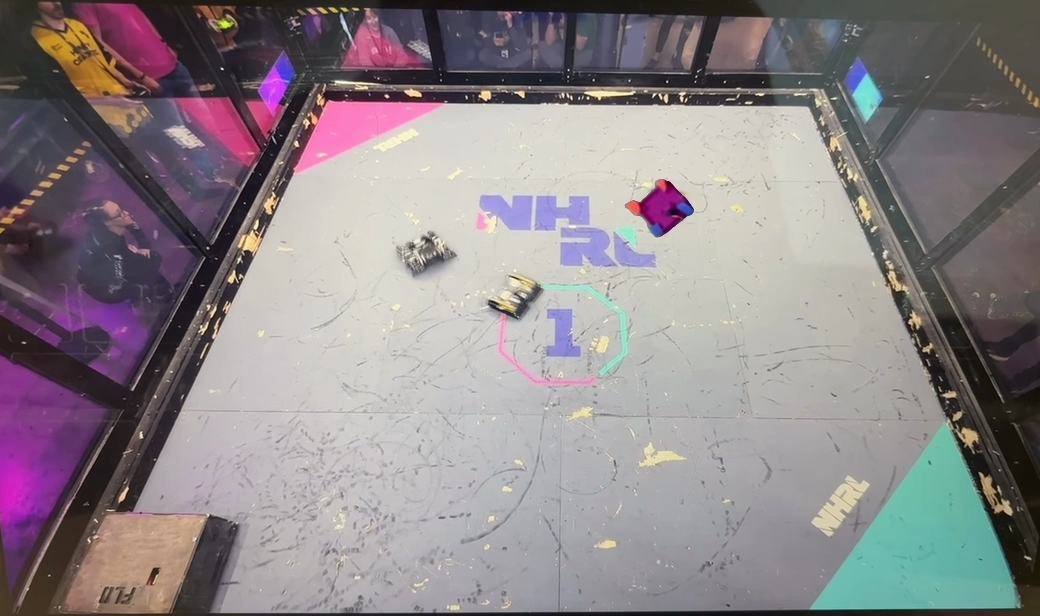
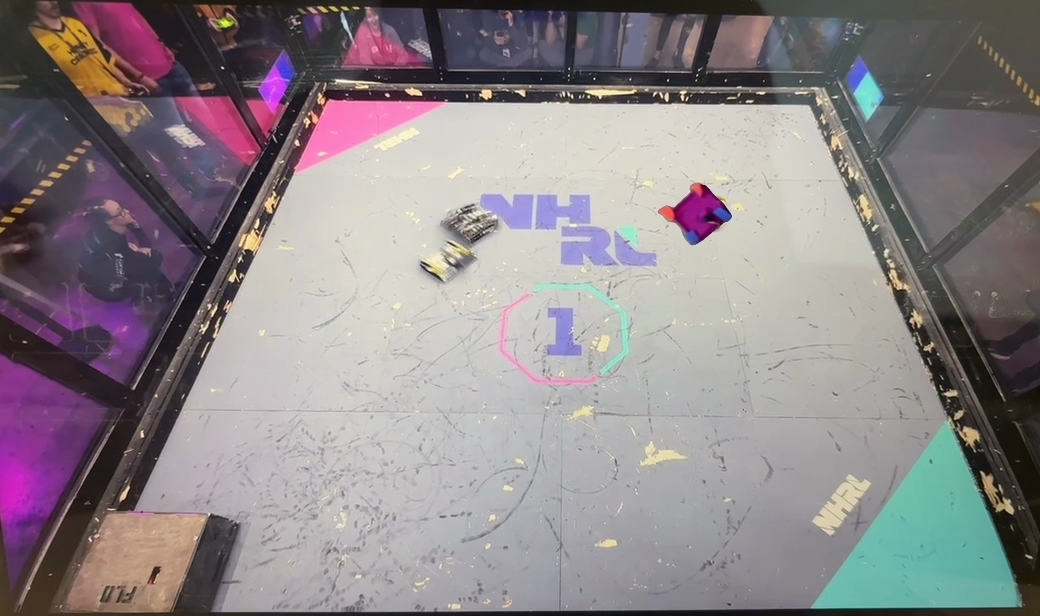
Polished CV2 arrow displays, Added custom frame rate, Handled edge cases in main.py

diff --git a/main.py b/main.py
@@ -1,7 +1,6 @@
 import cv2
 import os
 import numpy as np
-import matplotlib.pyplot as plt
 import math
 import time
 
@@ -30,8 +29,10 @@ def main():
     # 0. Set resize, camera numbers
 
     resize_factor = 1
-    camera_number = "crude_rot_huey.mp4" # Originally 0
+    camera_number = "crude_rot_huey.mp4"
     # camera_number = "huey_duet_demo.mp4"
+    # camera_number = "only_huey_demo.mp4"
+    # camera_number = "only_enemy_demo.mp4"
 
     # 1. Start the video and 2. Capture initial frame)
     cap = cv2.VideoCapture(camera_number)
@@ -49,15 +50,11 @@ def main():
             # Check for key press
             key = cv2.waitKey(1) & 0xFF
 
-            if key == ord('q'):  # Press 'q' to quit without capturing
+            if key == ord('q'): # Press 'q' to quit without capturing
                 break
-            elif key == ord('0'):  # Press '0' to capture the image and exit
-                captured_image = frame.copy()  # Store the captured frame
-                cv2.imwrite("captured_image.png",
-                            captured_image)  # Save the image
-                # cv2.imshow('Captured Image', captured_image)
-                # print("Press any key to continue...")
-                # cv2.waitKey(0)
+            elif key == ord('0'): # Press '0' to capture the image and exit
+                captured_image = frame.copy() # Store the captured frame
+                cv2.imwrite("captured_image.png", captured_image) # Save the image
                 break
         else:
             print("Failed to read frame" + "\n")
@@ -66,8 +63,7 @@ def main():
     cv2.destroyAllWindows()
 
     # 3. Homography Matrix and 4. Display the warped image
-    resized_image = cv2.resize(captured_image, (0, 0),
-                               fx=resize_factor, fy=resize_factor)  # NOTE: resized
+    resized_image = cv2.resize(captured_image, (0, 0), fx=resize_factor, fy=resize_factor)  # NOTE: resized
     h_mat = get_homography_mat(resized_image, 700, 700)
     warped_frame = warp(resized_image, h_mat, 700, 700)
     cv2.imshow("Warped Cage", warped_frame)
@@ -79,11 +75,9 @@ def main():
     image_path = os.getcwd() + "/warped_frame.png"
     output_file = "selected_colors.txt"
     selected_colors = ColorPicker.pick_colors(image_path)
-
     with open(output_file, "w") as file:
         for color in selected_colors:
             file.write(f"{color[0]}, {color[1]}, {color[2]}\n")
-
     print(f"Selected colors have been saved to '{output_file}'." + "\n")
 
     # Reading the HSV values for robot color, front and back corners from a text file
@@ -101,27 +95,33 @@ def main():
         exit(1)
 
     # Defining Corner Detection Object
-    corner_detection = RobotCornerDetection(selected_colors)
+    corner_detection = RobotCornerDetection(selected_colors, False, False)
 
     # Defining Roboflow Machine Learning Model Object
     predictor = RoboflowModel()
 
     # Defining Ram Ram Algorithm Object
-    algorithm = Ram() # TODO: initialize?
+    algorithm = Ram()
 
     cv2.destroyAllWindows()
 
-    # 6. Wait until the match starts
+    # 6. Set FPS
+    is_original_fps = True # Set True for running straight
+    frame_rate = 8
+    prev = 0
+
+    # 7. Wait for match to start
     while True:
         user_input = input("Type 'start' to begin: ").strip().lower()
         if user_input == "start":
             break
         else:
             print("Invalid input. Please type 'start' to proceed." + "\n")
-
     print("Proceeding with the rest of the program ..." + "\n")
 
     # ------------------------------------------------------------------------------
+
+    # 8. Match begins
 
     cap = cv2.VideoCapture(camera_number)
     if (cap.isOpened() == False):
@@ -129,6 +129,7 @@ def main():
 
     while (cap.isOpened()):
         # 1. Camera Capture
+        time_elapsed = time.time() - prev
         ret, frame = cap.read()
         if not ret:
             # If frame capture fails, break the loop
@@ -141,79 +142,66 @@ def main():
             break
 
         # 2. Warp image
-        frame = cv2.resize(frame, (0, 0), fx=resize_factor, fy=resize_factor)
-        warped_frame = warp(frame, h_mat, 700, 700)
-        cv2.imshow("Warped Cage", warped_frame)
-        cv2.imwrite("warped_cage.png", warped_frame)
+        if is_original_fps or time_elapsed > 1.0/frame_rate:
+            prev = time.time()
+            frame = cv2.resize(frame, (0, 0), fx=resize_factor, fy=resize_factor)
+            warped_frame = warp(frame, h_mat, 700, 700)
+            cv2.imwrite("warped_cage.png", warped_frame)
 
-        # 3. Object Detection
-        detected_bots = predictor.predict(warped_frame, show=True)
+            # 3. Object Detection
+            detected_bots = predictor.predict(warped_frame, show=True)
 
-        # 4. Corner Detection
-        corner_detection.set_bots(detected_bots["bots"])
-        detected_bots_with_data = corner_detection.corner_detection_main()
-
-        print("detected_bots_with_data: " + str(detected_bots_with_data) + "\n")
-        
-        # If bots are detected, run Algorithm
-        if detected_bots_with_data != {"huey": {}, "enemy": {}}:
-            detected_bots_with_data["enemy"] = detected_bots_with_data["enemy"][0]
+            # 4. Corner Detection
+            corner_detection.set_bots(detected_bots["bots"])
+            detected_bots_with_data = corner_detection.corner_detection_main()
+            print("detected_bots_with_data: " + str(detected_bots_with_data) + "\n")
             
-            # 5. Algorithm                                                                    
-            move_dictionary = algorithm.ram_ram(detected_bots_with_data)
-            print("move_dictionary: " + str(move_dictionary) + "\n")
+            """
+            1. detected_bots_with_data is not None
+            2. At least 1 bot is detected
+            3. At least 1 enemy is detected
+            """
+            if detected_bots_with_data and detected_bots_with_data["huey"]:
+                if detected_bots_with_data["enemy"]:
+                    # 5. Algorithm      
+                    detected_bots_with_data["enemy"] = detected_bots_with_data["enemy"][0]                                                             
+                    move_dictionary = algorithm.ram_ram(detected_bots_with_data)
+                    print("move_dictionary: " + str(move_dictionary) + "\n")
+                    display_angles(detected_bots_with_data, move_dictionary, warped_frame)
+                else:
+                    display_angles(detected_bots_with_data, None, warped_frame)
+            else:
+                display_angles(None, None, warped_frame)
 
-            display_angles(detected_bots_with_data, move_dictionary)
-        else:
-            print("......")
+    cap.release() # Release the camera object
+    cv2.destroyAllWindows() # Destroy all cv2 windows
 
-            # if we dont detect us, dont run algorithm
-            # if we dont detect enemy, ???
-
-    cap.release()  # Release the camera object
-    cv2.destroyAllWindows()  # Destroy all cv2 windows
-
-def display_angles(detected_bots_with_data, move_dictionary):
-    # arrow_image = cv2.imread(os.getcwd() + "/warped_cage.png")
-
-    vectorImage = plt.imread(os.getcwd() + "/warped_cage.png")
-    _, ax = plt.subplots()
-    ax.imshow(vectorImage)
+def display_angles(detected_bots_with_data, move_dictionary, image):
+    # blue line, current orientation
+    if detected_bots_with_data and detected_bots_with_data["huey"]["orientation"]:
+        orientation = detected_bots_with_data["huey"]["orientation"] # orientation in degrees
+        dx = np.cos(math.pi / 180 * orientation)
+        dy = -1 * np.sin(math.pi / 180 * orientation)
+        start_x = int(detected_bots_with_data["huey"]["center"][0])
+        start_y = int(detected_bots_with_data["huey"]["center"][1])
+        #TODO: OG orientation is not right; maybe change start & end point for arrow
+        end_point = (int(start_x + 300*dx), int(start_y + 300*dy))
+        print("start_x: " + str(start_x) + ", start_y: " + str(start_y))
+        print("end_point: " + str(end_point))
+        cv2.arrowedLine(image, (start_x, start_y), end_point, (255, 0, 0), 2)
     
-    # red line
-    orientation = detected_bots_with_data["huey"]["orientation"] # orientation in degrees
-    dx = np.cos(math.pi / 180 * orientation)
-    dy = np.sin(math.pi / 180 * orientation)
-
-    # start_x = detected_bots_with_data["huey"]["center"][0]
-    # start_y = detected_bots_with_data["huey"]["center"][1]
-
-    # end_point = (start_x + 300*dx, start_y + 300*dy)
-
-    # cv2.arrowedLine(arrow_image, (start_x, start_y), end_point, (255, 0, 0), 2)
-    ax.quiver(detected_bots_with_data["huey"]["center"][0], detected_bots_with_data["huey"]["center"][1], dx, dy, scale=0.5, color="red")
-    
-    # blue line, where we want to 
-    turn = move_dictionary["turn"] # angle in degrees / 180
-    new_orientation = orientation + (turn * 180) # NEW ORIENTATION IN DEGREES
-    dx = np.cos(math.pi * new_orientation / 180)
-    dy = np.sin(math.pi * new_orientation / 180)
-    
-    # end_point = (start_x + 300*dx, start_y + 300*dy)
-
-    # cv2.arrowedLine(arrow_image, (start_x, start_y), end_point, (0, 255, 0), 2)
-
-    ax.quiver(detected_bots_with_data["huey"]["center"][0], detected_bots_with_data["huey"]["center"][1], dx, dy, scale=0.5, color="blue")
-
-    plt.title("Current & Predicted Orientation")
-    # plt.close('all') 
-    plt.show()
-
-    # ----------------------------------------
-
-    # cv2.imshow(vectorImage)
-    # cv2.waitKey(0)
-    # cv2.destroyAllWindows()
+    # red line, where we want to face
+    if move_dictionary and move_dictionary["turn"]:
+        turn = move_dictionary["turn"] # angle in degrees / 180
+        new_orientation = orientation + (turn * 180) # NEW ORIENTATION IN DEGREES
+        dx = np.cos(math.pi * new_orientation / 180)
+        dy = -1 * np.sin(math.pi * new_orientation / 180)
+        
+        end_point = (int(start_x + 300*dx), int(start_y + 300*dy))
+        cv2.arrowedLine(image, (start_x, start_y), end_point, (0, 0, 255), 2)
+        
+    cv2.imshow("Battle with Predictions", image)
+    cv2.waitKey(1)
 
 if __name__ == "__main__":
     # Run using 'kernprof -l -v --unit 1e-3 main.py' for debugging

diff --git a/corner_detection/corner_detection.py b/corner_detection/corner_detection.py
@@ -419,9 +419,9 @@ class RobotCornerDetection:
             image = self.detect_our_robot_main(bot_images)
             
             if image is not None:
-                cv2.imshow("Huey", image)
-                cv2.waitKey(1)
-                cv2.destroyAllWindows()
+                # cv2.imshow("Huey", image)
+                # cv2.waitKey(1)
+                # cv2.destroyAllWindows()
 
                 centroid_points = self.find_centroids(image)
                 print("centroid points: " + str(centroid_points))
@@ -501,7 +501,7 @@ class RobotCornerDetection:
                 return result
             else:
                 print("Image doesn't exist")
-                return {"huey": {}, "enemy": {}}
+                return {"huey": {}, "enemy": []}
 
         except Exception as e:
             print(f"Unexpected error in corner_detection_main: {e}")

diff --git a/machine/predict.py b/machine/predict.py
@@ -283,9 +283,9 @@ class RoboflowModel(TemplateModel):
         #     )
 
         # Display the image with predictions
-        cv2.imshow("Roboflow Predictions", img)
-        cv2.waitKey(0)
-        cv2.destroyAllWindows()
+        # cv2.imshow("Roboflow Predictions", img)
+        # cv2.waitKey(0)
+        # cv2.destroyAllWindows()
 
     def train(self, batch, epoch, train_path, validation_path, save_path, save):
         return super().train(batch, epoch, train_path, validation_path, save_path, save)
